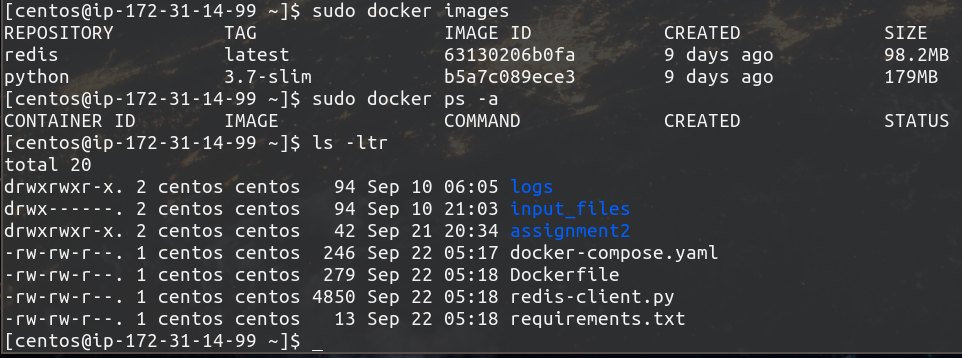
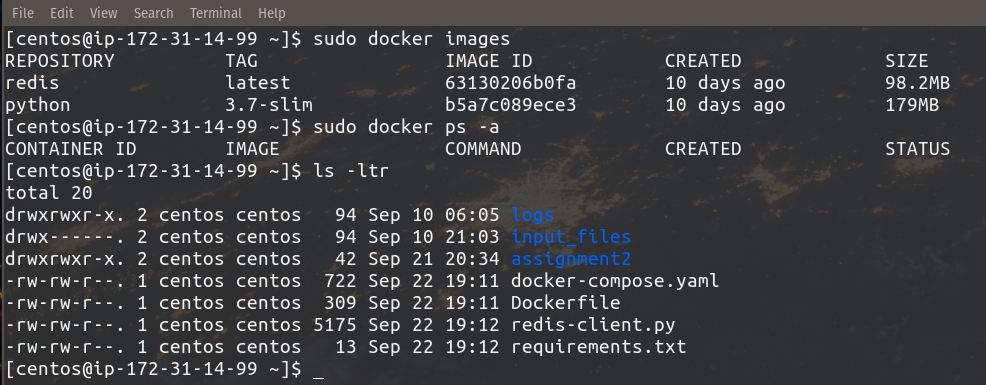
updates

Changed region(s): [[0.0, 0.0, 1.0, 1.0], [0.7484, 0.4302, 0.8108, 0.5223]]

diff --git a/assignment3/redis-client.py b/assignment3/redis-client.py
@@ -64,8 +64,6 @@ def query2_unique_visitors_per_url_per_hour(file_name):
         if redisClient.hget(full_key, userId) == None:
             redisClient.hset(full_key, userId, 'true')
             redisClient.hincrby(full_key, 'count', 1)
-        # redis-cli monitor
-        # HGET 2019-09-14:14:http://example.com/?url=042
     return
     '''
     <date:hour:url>,  unique_user_count
@@ -78,7 +76,8 @@ def query2_unique_visitors_per_url_per_hour(file_name):
 
 
 def query3_unique_events_per_url_per_hour(file_name):
-    input_file = csv.DictR# redisClient.saad(timestamp_hour, url)es=field_names)
+    print('query3')
+    input_file = csv.DictReader(open(file_name), fieldnames=field_names)
     for row in input_file:        # SMEMBERS for timestamp_hour gives you all the URL's
         timestamp = row['timestamp']
         url = row['url']
@@ -92,8 +91,6 @@ def query3_unique_events_per_url_per_hour(file_name):
         timestamp_hour = '%s-%s-%s:%s' % (date.year, date.month, date.day, date.hour)
 
         redisClient.hincrby(timestamp_hour, url, 1)
-        # redis-cli monitor
-        # HGET HGET 2019-09-14:14:http://example.com/?url=042
         '''
         <date:hour:url>,  event_count
         2019-09-14:14:http://example.com/?url=042, ??

diff --git a/assignment3/README.md b/assignment3/README.md
@@ -1,0 +1,22 @@
+# Instructions
+1. `scp` the docker-compose.yaml, requirements, redis-clientpy, Dockerfile into ec2  
+2.  
+Terminal1 - `docker-compose build` and `docker-compose up` *  
+Terminal2 - `docker exec -it <redis-server>` and redis-cli for the specified keys  
+```
+# query1
+HGET 2019-9-14:23 count
+
+# query2
+HGET 2019-09-14:14:http://example.com/?url=042 count
+
+# query3
+HGET 2019-09-14:14 http://example.com/?url=042
+ 
+```  
+3. `docker-compose down`  
+3. Update the docker-compose.yaml so it sends query2, query3, then `scp` again, follow steps 1-3 again**  
+
+
+*ideally should end in a redis-cli monitor in the foreground, but I only saw `-d` detach option for sending all to background.  
+**need parameterize the selected query so it's like `docker-compose up <query1>`  
